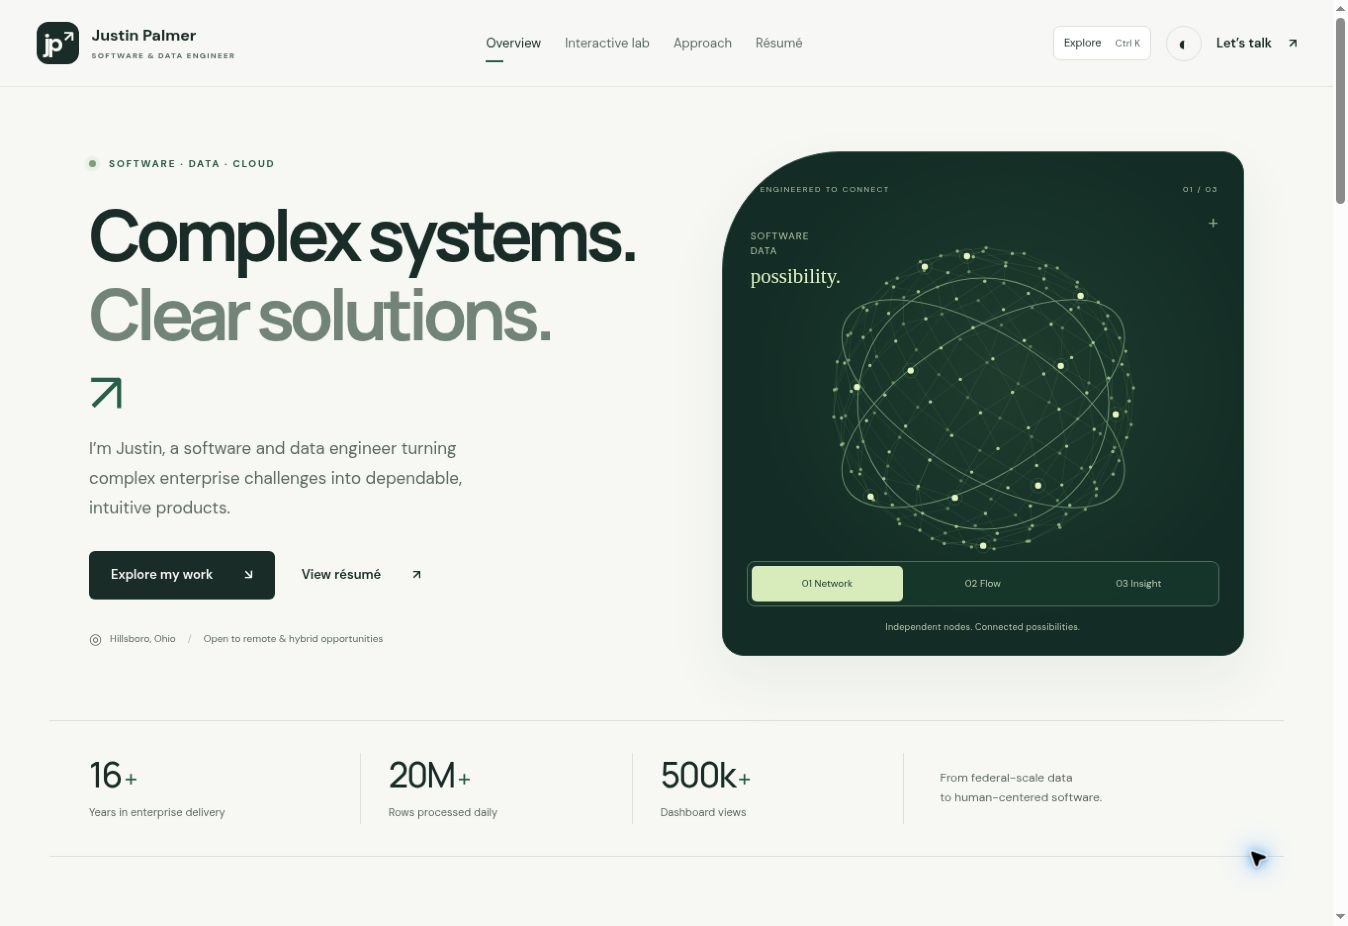
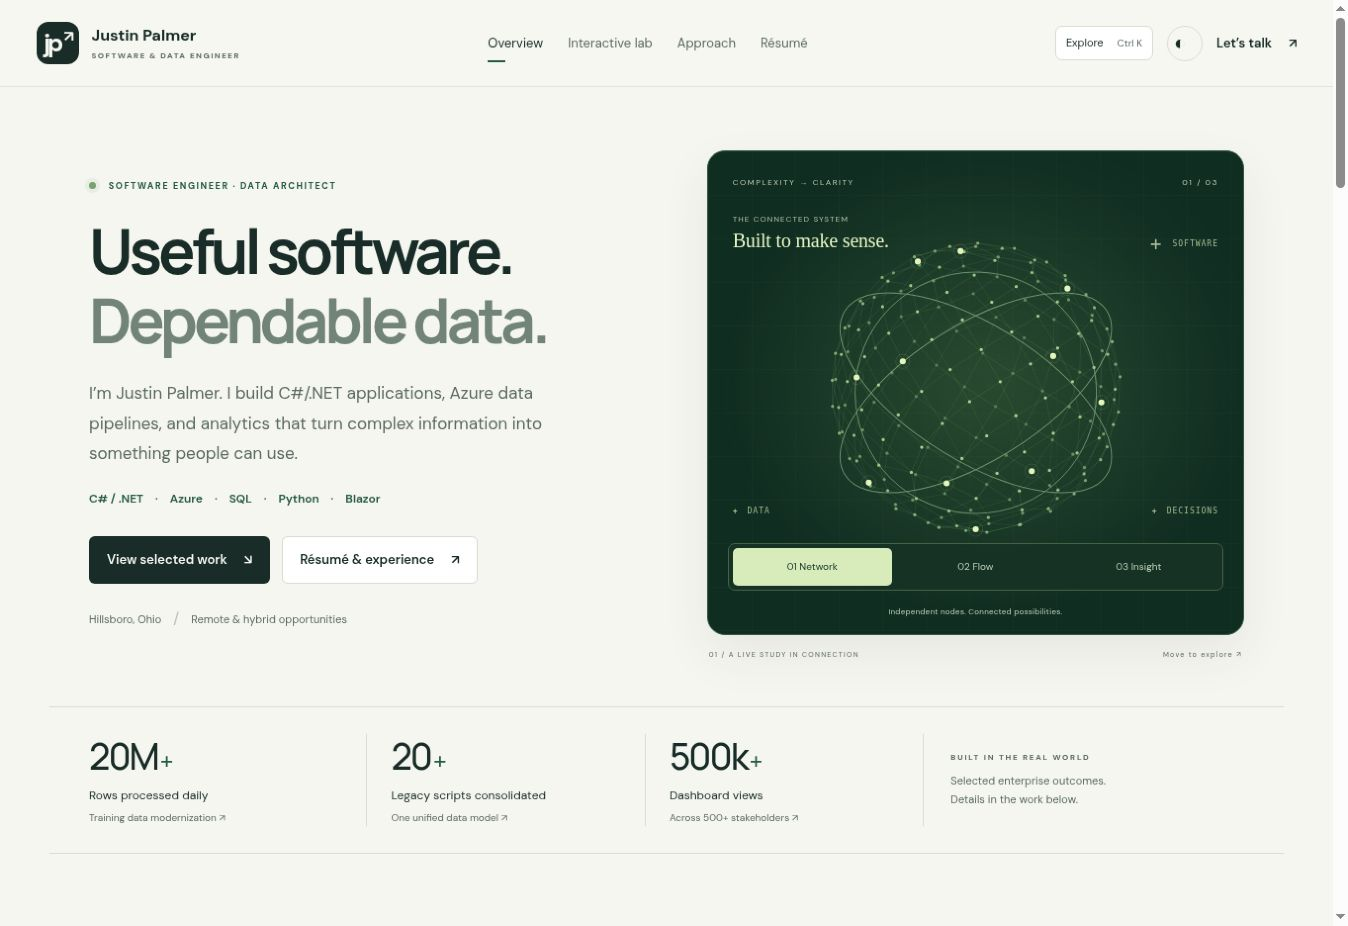
Polish project illustration and refresh portfolio preview

diff --git a/MyPersonalSite/wwwroot/portfolio/index.html b/MyPersonalSite/wwwroot/portfolio/index.html
@@ -46,7 +46,7 @@
       <div class="project-body"><p class="eyebrow">DATA ENGINEERING / MODERNIZATION</p><h3>20+ scripts.<br>One dependable model.</h3><p>I managed the transition of training analytics into Treasury’s enterprise warehouse, consolidating legacy PL/SQL logic into a unified data model.</p><dl class="project-outcome"><dt>OUTCOME</dt><dd>A reporting foundation processing <strong>20M+ rows daily.</strong></dd></dl><div class="tags"><span>SQL / PL/SQL</span><span>Data integration</span><span>Data modeling</span></div><button class="text-btn project-open js-only" data-project="data">Read the case study <span>↗</span></button></div>
     </article>
     <article id="ai-project" class="project">
-      <div class="project-art dark-art"><div class="mini-top"><span>02 / APPLIED AI</span><span class="small-dot"></span></div><div class="query-line"><span aria-hidden="true">⌕</span> What changed in the platform?</div><div class="rag-flow"><span>Audit events</span><i aria-hidden="true">→</i><span class="active">Retrieved context</span><i aria-hidden="true">→</i><span>Investigation</span></div><div class="answer-lines"><i></i><i></i><i></i></div><span class="art-footnote">ILLUSTRATIVE WORKFLOW · NO PRODUCTION DATA</span></div>
+      <div class="project-art dark-art"><div class="mini-top"><span>02 / APPLIED AI</span><span class="small-dot"></span></div><div class="query-line"><span aria-hidden="true">⌕</span> What changed in the platform?</div><div class="rag-flow"><span>Audit events</span><i aria-hidden="true">→</i><span class="active">Retrieved context</span><i aria-hidden="true">→</i><span>Investigation</span></div><span class="art-footnote">ILLUSTRATIVE WORKFLOW · NO PRODUCTION DATA</span></div>
       <div class="project-body"><p class="eyebrow">SOFTWARE ENGINEERING / AZURE OPENAI</p><h3>A better way into<br>platform activity.</h3><p>I architected and integrated a retrieval-augmented Azure OpenAI experience in an enterprise Blazor portal, connecting natural-language questions to Power BI audit context.</p><dl class="project-outcome"><dt>DELIVERED</dt><dd>An investigation workflow over <strong>millions of audit events.</strong></dd></dl><div class="tags"><span>C# / Blazor</span><span>Azure OpenAI</span><span>RAG</span></div><button class="text-btn project-open js-only" data-project="ai">Read the case study <span>↗</span></button></div>
     </article>
     <article id="analytics-project" class="project">
